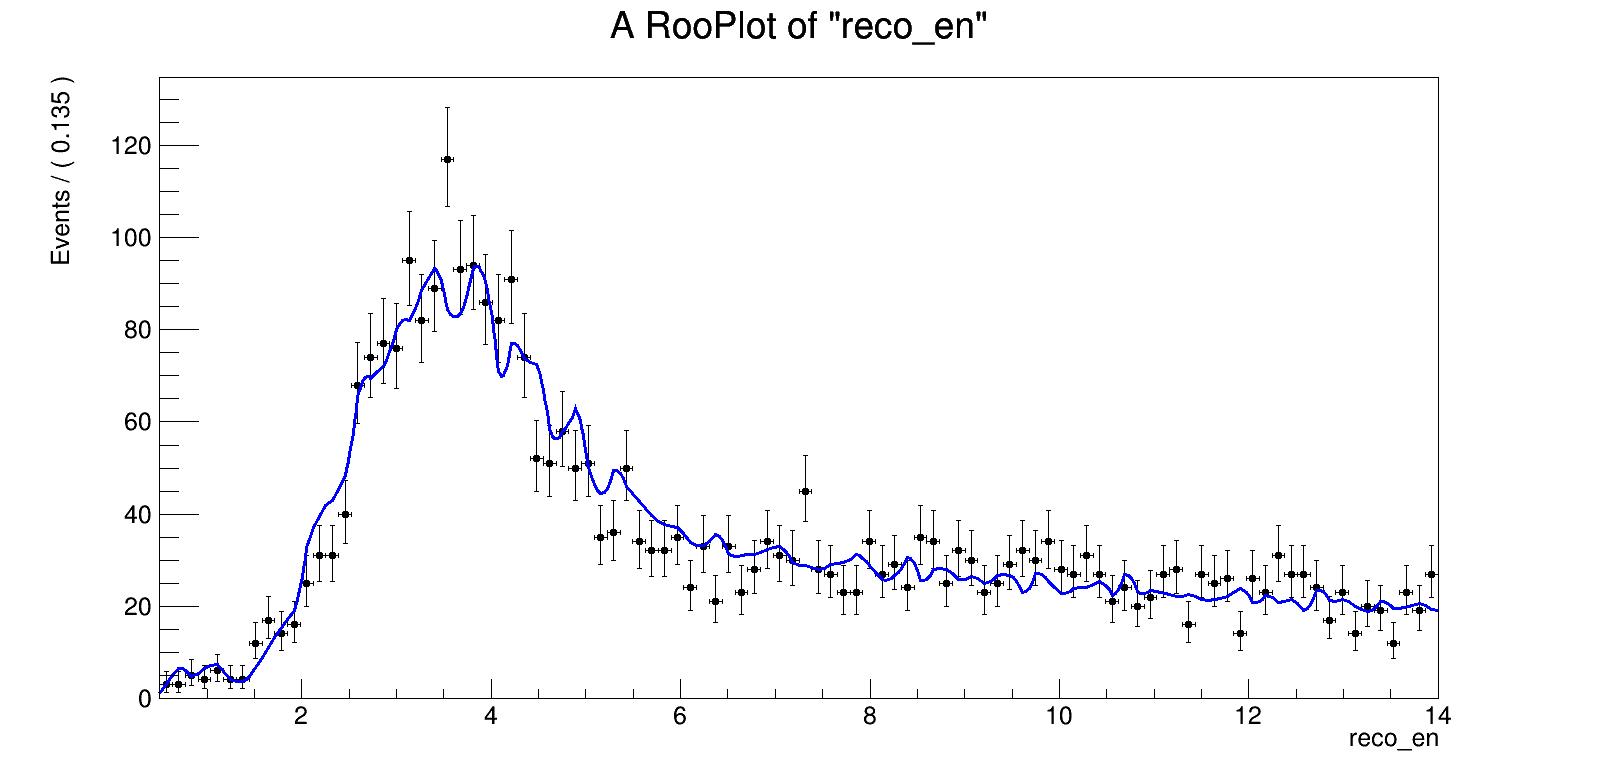
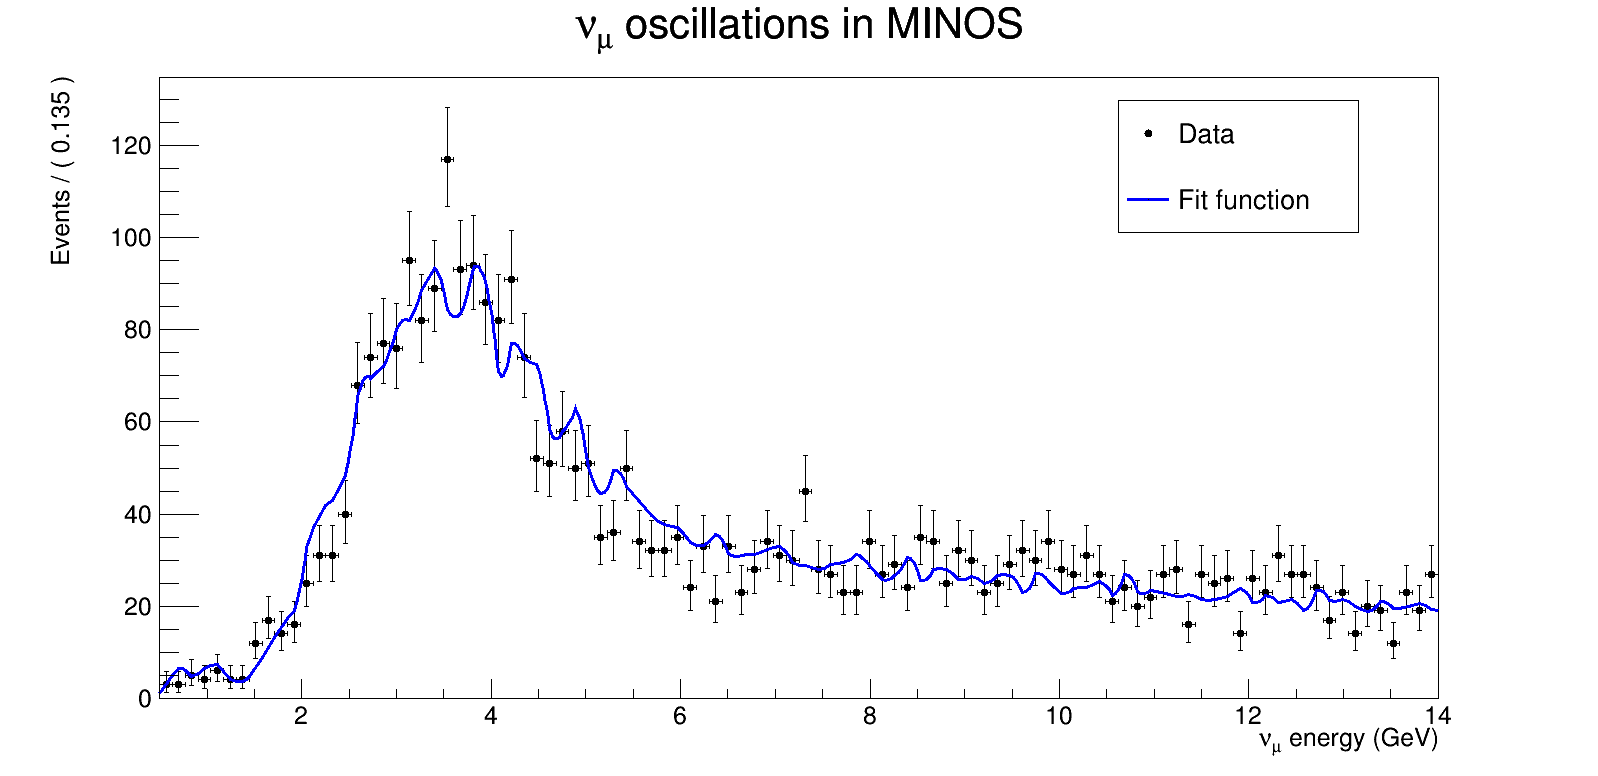
MINOS almost ready to submit

diff --git a/MINOS.cpp b/MINOS.cpp
@@ -18,7 +18,7 @@ int MINOS() {
     RooRealVar reco_en ("reco_en", "reco_en", 0.5, 14.);
     //RooRealVar mc_noosc ("mc_noosc", "mc_noosc", 0.5, 14.); // non serve per l'altro data set, anzi, devono essere la stessa variabile perchè altrimenti non fitta
     RooRealVar mixing ("mixing", "sin^{2}(2#theta)", 0.8, 1.);
-    RooRealVar dm2 ("dm2", "(#Deltam^{2})", 2.2e-3, 2.6e-3);  
+    RooRealVar dm2 ("dm2", "(#Deltam^{2})", 2.0e-3, 2.6e-3);  
     RooRealVar distance ("distance", "distance", 730); //constant
     
     // Computing the oscillation probability with observed data
@@ -41,16 +41,31 @@ int MINOS() {
     // Fitting and plotting
     model.fitTo(*ds_reco_en);
     RooPlot *osc = reco_en.frame();
+    osc->SetTitle("#nu_{#mu} oscillations in MINOS");
+    osc->GetXaxis()->SetTitle("#nu_{#mu} energy (GeV)");
     ds_reco_en->plotOn(osc, Name("Data"));
     model.plotOn(osc, Name("Model Fit"));
 
     TCanvas *c1 = new TCanvas("c1", "MINOS", 1600, 800);
     osc->Draw();
+
+    TLegend *leg1 = new TLegend(0.70, 0.70, 0.85, 0.87);
+    leg1->SetFillColor(kWhite);
+    leg1->SetLineColor(kBlack);
+    leg1->AddEntry("Data", "Data", "P");
+    leg1->AddEntry("Model Fit", "Fit function", "LP");
+   
+    leg1->Draw("SAME");
+
     c1->Print("minos_data.png");
 
     // Defining the negative log likelihood and the MINUIT interface object
     RooAbsReal* nll = model.RooAbsPdf::createNLL(*ds_reco_en);
     RooMinuit m(*nll);
+
+    // Creating txt file to host fit results
+    ofstream myfile;
+    myfile.open("minos_fit.txt");
 
     // Minimizing via MINUIT with MIGRAD and printing the results
     m.setVerbose(kTRUE);
@@ -58,14 +73,17 @@ int MINOS() {
     dm2.Print();
     mixing.Print();
 
-    RooFitResult * result = m.save("m", "MIGRAD"); // forse lui lo vuole solo alla fine, quindi su file di testo scrivo solo gli altri risultati
-    result->Print("v"); // con v stampa anche distance e le global corrections 
+    //RooFitResult * result = m.save("m", "MIGRAD"); // forse lui lo vuole solo alla fine, quindi su file di testo scrivo solo gli altri risultati
+    //result->Print("v"); // con v stampa anche distance e le global corrections 
 
-    ofstream myfile;
-    myfile.open("minos_fit.txt");
-    myfile << "MIGRAD results: " << *result << '\n'; 
+    myfile << "MIGRAD results: (Delta m)^2 = " << dm2 << " +/- " << dm2.getError() << " eV^2" << '\n'; 
+    myfile << "\t \t \t (sin(2theta))^2 = " << mixing << " +/- " << mixing.getError() << '\n'; 
+    //result->printArgs(myfile); 
 
     RooPlot* contour = m.contour(mixing, dm2, 1, 2, 0); // up to 3 sigmas
+    contour->SetTitle("Contour plot");
+    contour->GetXaxis()->SetTitle("sin^{2}(2#theta)");
+    contour->GetYaxis()->SetTitle("#Deltam^{2}");
     TCanvas *c2 = new TCanvas("c2", "MINOS_contour", 1600, 800);
     contour->Draw();    
     c2->Print("minos_likelihood.png");
@@ -76,18 +94,26 @@ int MINOS() {
     dm2.Print();
     mixing.Print();
 
-    result = m.save("m1", "HESSE");
-    result->Print("v"); 
-    myfile << "HESSE results: " << *result << '\n'; 
+    myfile << "HESSE results: (Delta m)^2 = " << dm2 << " +/- " << dm2.getError() << " eV^2" << '\n'; 
+    myfile << "\t \t \t (sin(2theta))^2 = " << mixing << " +/- " << mixing.getError() << '\n';
+
+    // result = m.save("m1", "HESSE");
+    // result->Print("v"); 
+    // myfile << "HESSE results: " << *result << '\n'; 
 
     // Running MINOS only on mass splitting parameter, printing the result
     m.minos(dm2);
     dm2.Print();
+    myfile << "MINOS results: (Delta m)^2 = " << dm2 << " +/- " << dm2.getError() << " eV^2" << '\n';     
+    myfile << "\t \t \t";
 
+    // Saving all results from MINOS fit
+    RooFitResult * result = m.save("m", "MINOS"); 
     result = m.save("m2", "MINOS");
     result->Print("v"); 
-    myfile << "MINOS results: " << *result << '\n'; 
-
+    //myfile << "MINOS results: " << *result << '\n'; 
+    result->printValue(myfile);
+    
     myfile.close();
 
   

diff --git a/B0_decay.cpp b/B0_decay.cpp
@@ -66,6 +66,8 @@ int B0_decay() {
   
   // draw data and model
   RooPlot *xframe = x.frame();
+  xframe->SetTitle("B0 decay");
+  xframe->GetXaxis()->SetTitle("m(p#bar{p})[MeV/c^{2}]");
 
   data->plotOn(xframe, Name("Data"));
   model.plotOn(xframe, Components(gaus0), LineColor(kViolet+1), Name("gaus0"));
@@ -79,17 +81,23 @@ int B0_decay() {
 
   // Frames and plots of residual and pulls distributions
   RooPlot *res = x.frame(Title("Residual Distribution"));
+  res->GetXaxis()->SetTitle("m(p#bar{p})[MeV/c^{2}]");
+  res->GetYaxis()->SetTitle("Events");
   res->addPlotable(hresid, "P");
   RooPlot *pull = x.frame(Title("Pulls Distribution"));
+  pull->GetXaxis()->SetTitle("m(p#bar{p})[MeV/c^{2}]");
+  pull->GetYaxis()->SetTitle("Events");
   pull->addPlotable(hpull, "P");
 
-  TCanvas *c1 = new TCanvas("c1", "B0_decay", 800, 400);
+
+  //Plotting
+  TCanvas *c1 = new TCanvas("c1", "B0_decay", 1600, 800);
   c1->Divide(3);
   
   c1->cd(1);
   xframe->Draw(); 
 
-  TLegend *leg1 = new TLegend(0.65, 0.73, 0.86, 0.87);
+  TLegend *leg1 = new TLegend(0.55, 0.60, 0.85, 0.87);
   leg1->SetFillColor(kWhite);
   leg1->SetLineColor(kBlack);
   leg1->AddEntry("Data", "Data", "P");
@@ -106,6 +114,7 @@ int B0_decay() {
   c1->cd(3);
   pull->Draw();
 
+  c1->Print("B0_decay.png");
 
   return 0;
 }

diff --git a/READ.md b/READ.md
@@ -1,0 +1,1 @@
+MINOS almost ready to submit
